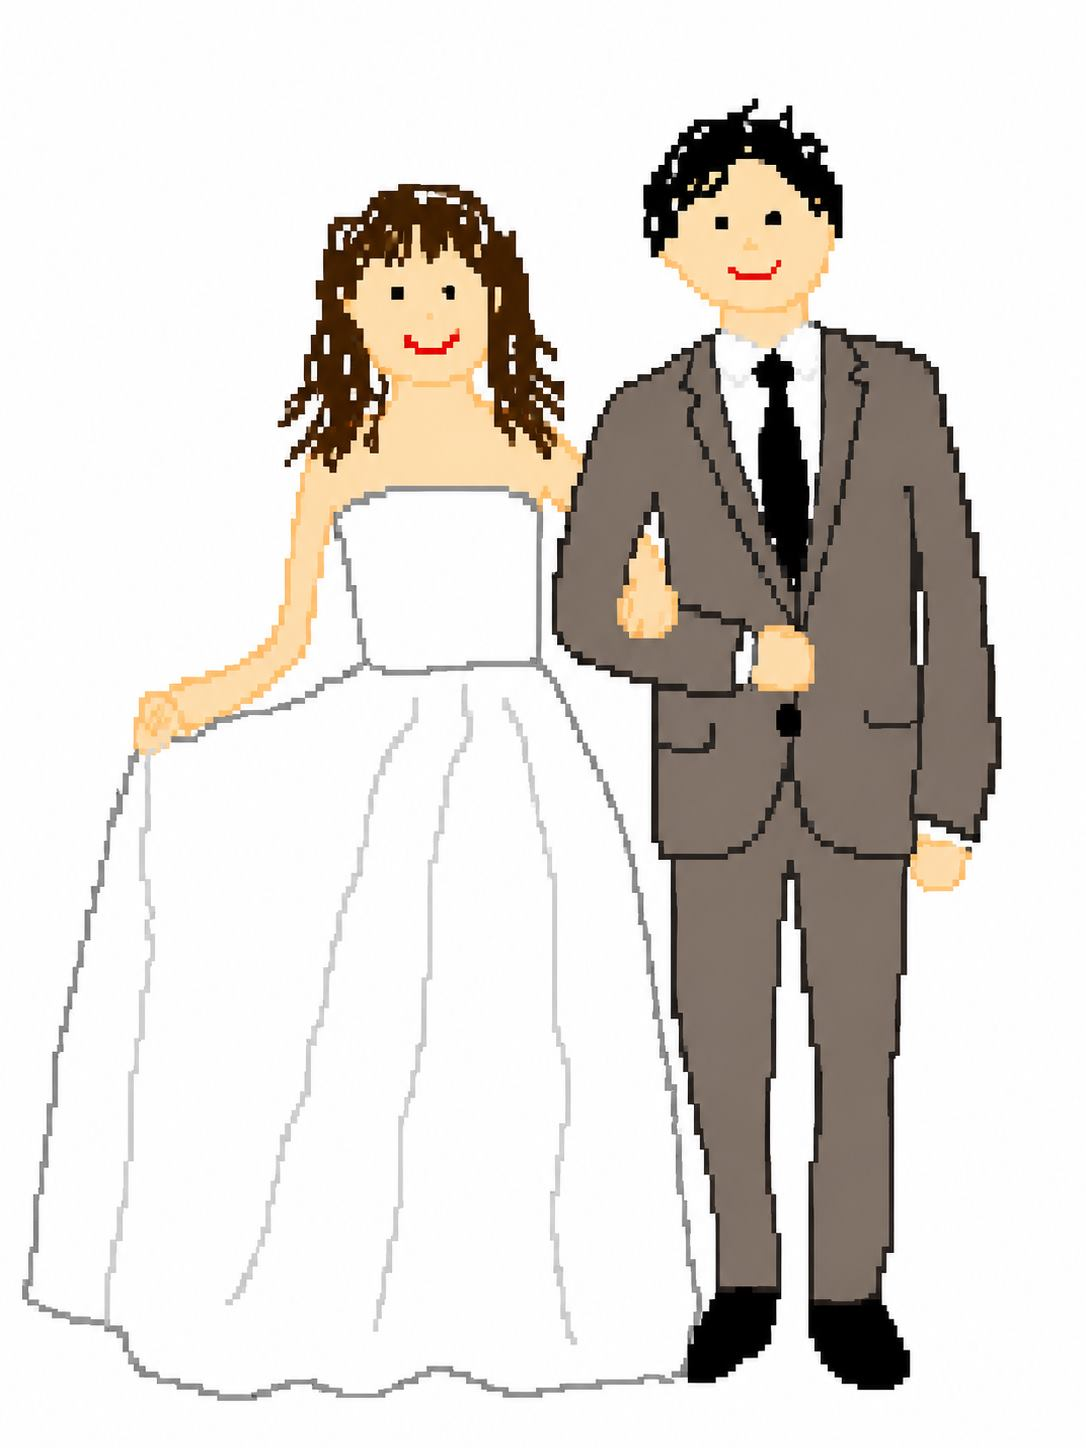
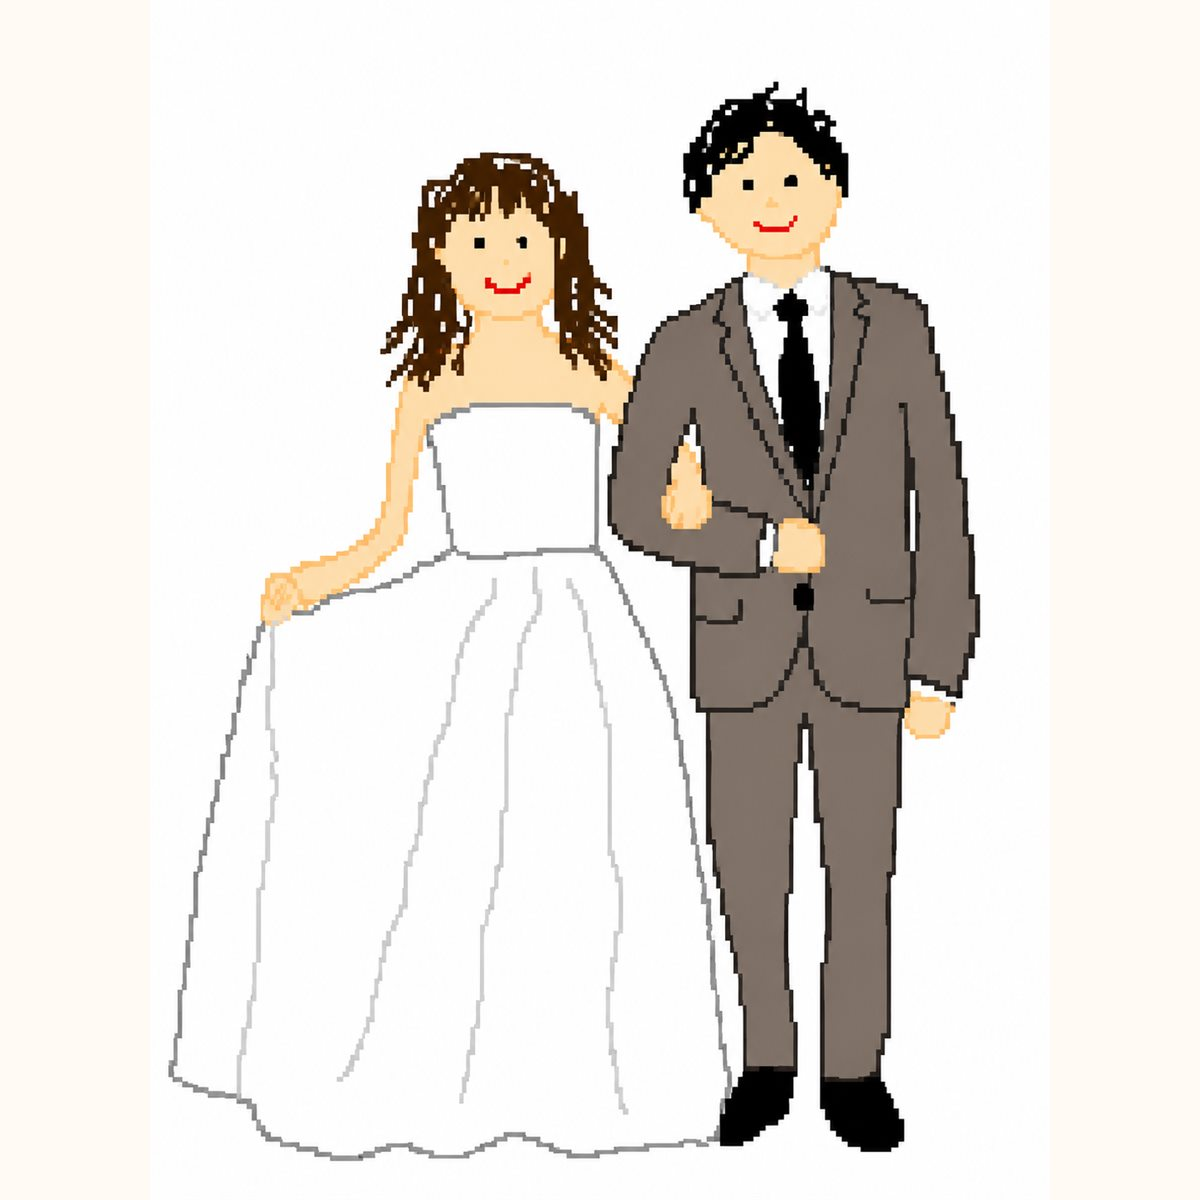
썸네일 수정

diff --git a/styles.css b/styles.css
@@ -46,7 +46,7 @@ body.viewer-open {
   display: flex;
   align-items: flex-end;
   overflow: hidden;
-  background: var(--cream);
+  background: #171412;
 }
 
 .hero-photo {
@@ -54,7 +54,7 @@ body.viewer-open {
   inset: 0;
   width: 100%;
   height: 100%;
-  object-fit: cover;
+  object-fit: contain;
   transform: translateY(var(--hero-shift, 0));
   transition: transform 140ms linear;
 }
@@ -406,7 +406,7 @@ dd small {
   overflow: hidden;
   border: 2px solid transparent;
   border-radius: 8px;
-  background: var(--cream);
+  background: #f1e8dd;
   box-shadow: 0 8px 20px rgba(31, 24, 18, 0.08);
   transition:
     border-color 180ms ease,
@@ -424,7 +424,7 @@ dd small {
   width: 100%;
   height: 100%;
   display: block;
-  object-fit: cover;
+  object-fit: contain;
   pointer-events: none;
   user-select: none;
   -webkit-user-drag: none;